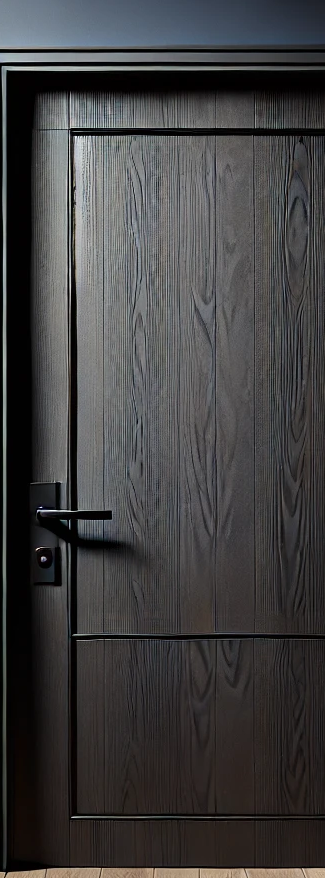
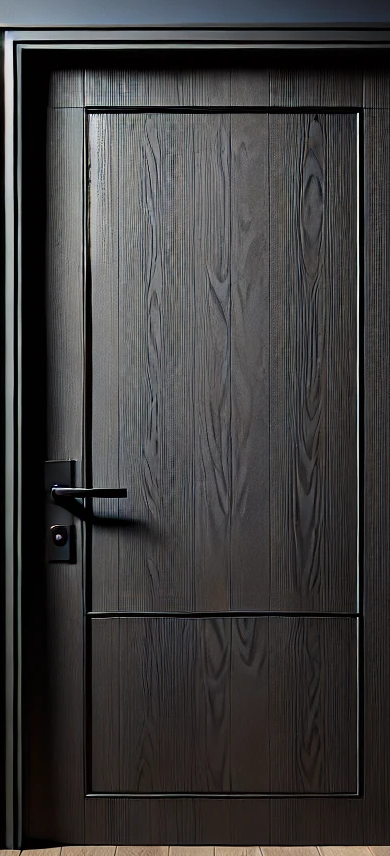
Refine homepage door crop and sizing

diff --git a/AtlasBahamasHome.html b/AtlasBahamasHome.html
@@ -32,7 +32,7 @@
         <p class="door-tagline">An experience from the moment you arrive.</p>
 
         <a href="AtlasBahamasLogin.html" class="door-link door-photo-link" aria-label="Enter and log in">
-          <img class="door-photo" src="assets/images/AtlasBahamasDoorHomeCropped.png" fetchpriority="high" loading="eager" decoding="async" width="325" height="878" alt="Front door entrance">
+          <img class="door-photo" src="assets/images/AtlasBahamasDoorHomeCropped.png" fetchpriority="high" loading="eager" decoding="async" width="390" height="856" alt="Front door entrance">
           <span class="door-photo-badge">Enter</span>
         </a>
       </div>

diff --git a/AtlasBahamasVisualIdentity.css b/AtlasBahamasVisualIdentity.css
@@ -162,7 +162,7 @@ a {
 
 .door-photo {
   display: block;
-  width: min(325px, 84vw);
+  width: min(390px, 84vw);
   height: auto;
   object-fit: contain;
   object-position: center center;
@@ -314,7 +314,7 @@ textarea {
   }
 
   .door-photo {
-    width: min(325px, 88vw);
+    width: min(390px, 88vw);
     height: auto;
   }
 }
